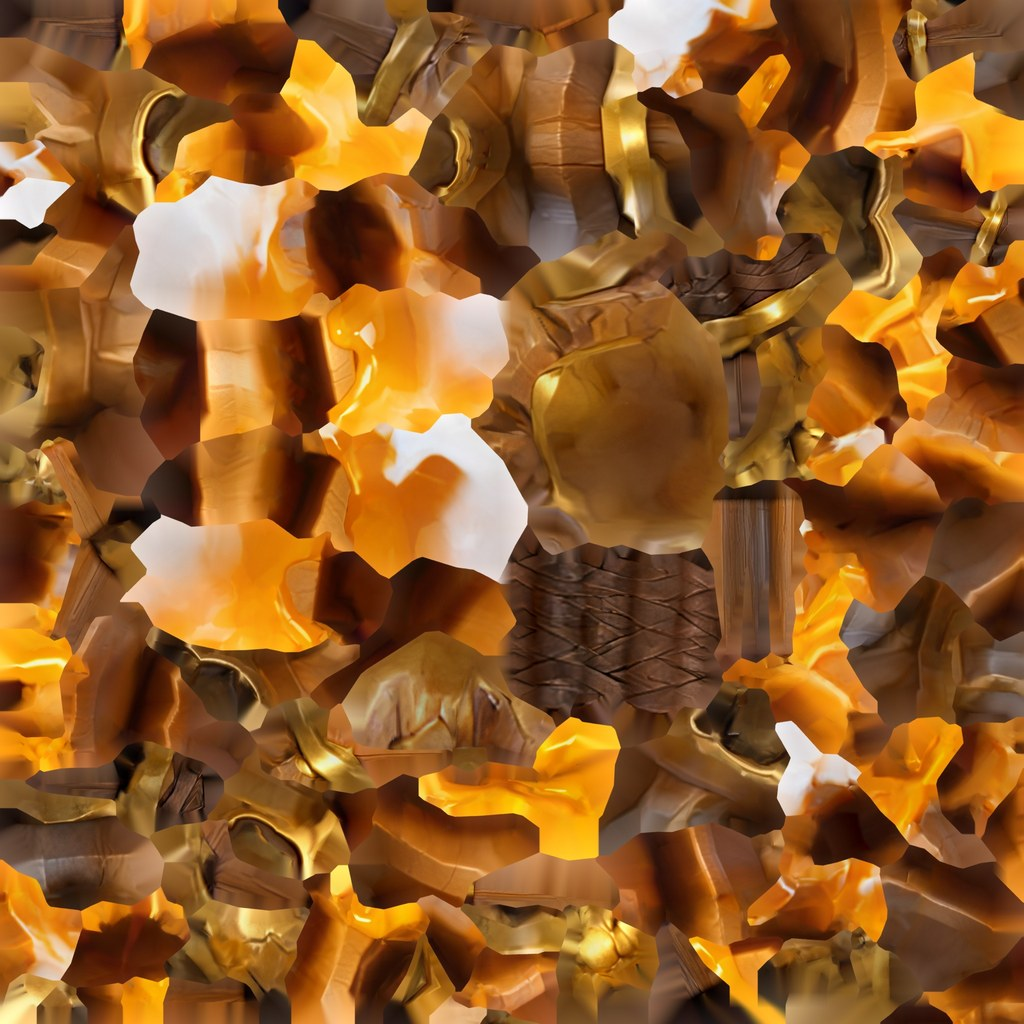
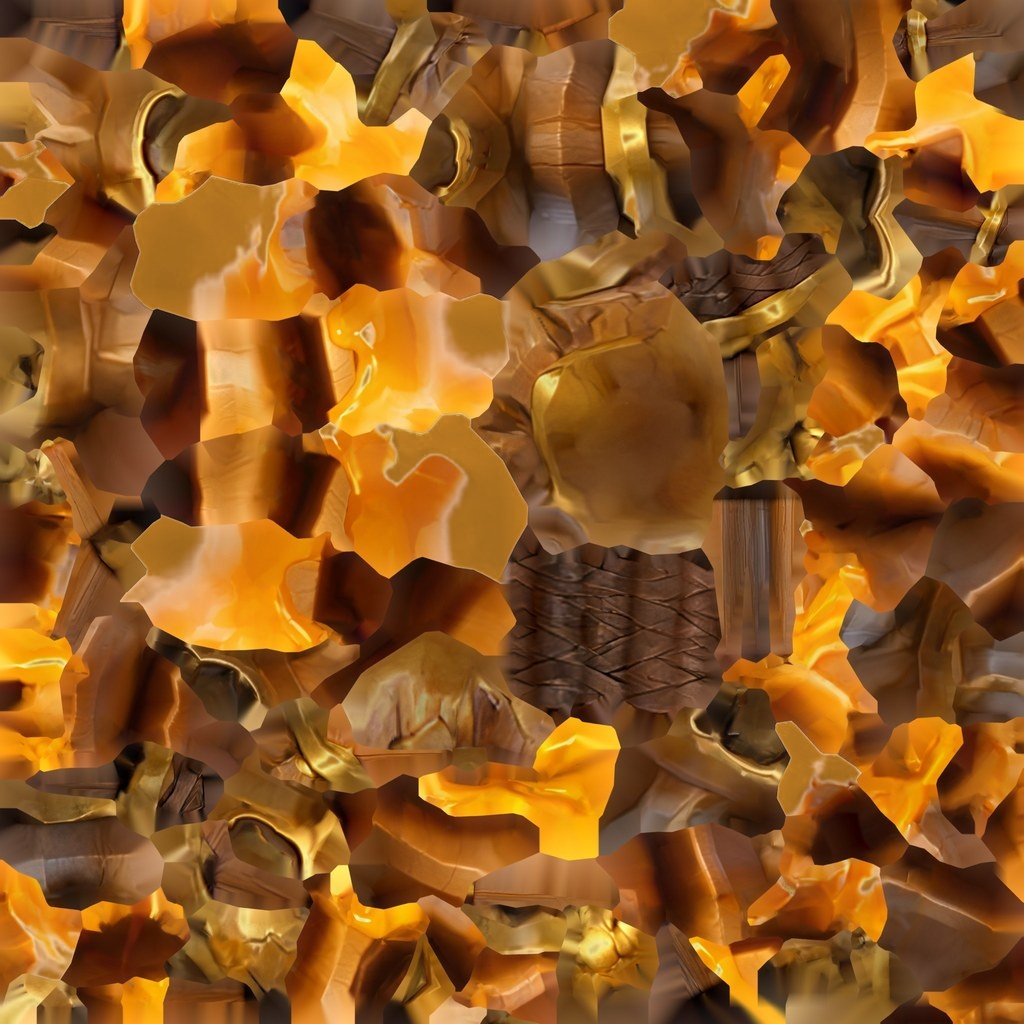
Ravnas kråka flyttad in på axeln (x 0.035, y 0.025, z -0.01 från överarmen i stället för ute på mantelkanten) och Moas V2-stav utan vita fläckar (Tripos inbakade vita ljus i v2_moa_staff.jpg omfärgade till honungsbärnsten). Rickard 16 nov: "Fågeln utanför, moas stav är vit på toppen". Bara bild, ing
Claude-Session: https://claude.ai/code/session_01M7eBmsdbX5dujjbvcNASSn

diff --git a/Assets/BAM/Art/Weapons.cs b/Assets/BAM/Art/Weapons.cs
@@ -595,7 +595,9 @@ namespace BAM.Art
             {
                 new WornDef { Model = "v2_ravna_mantle", Bone = Chest, From = LArm, To = RArm, Height = 0.55f, At = new Vector3(0f, 0.03f, -0.05f), Flat = 0.8f, Sway = 20f },
                 new WornDef { Model = "v2_ravna_mask", Bone = Head, From = Head, Height = 0.16f, At = new Vector3(0f, 0.06f, 0f) },
-                new WornDef { Model = "v2_ravna_crow", Bone = HumanBodyBones.LeftShoulder, From = LArm, Height = 0.1f, At = new Vector3(-0.015f, 0.04f, -0.015f) },
+                // the crow on top of her left shoulder, between the neck and the shoulder ball, feet in the mantle's feathers: at x -0.015
+                // (out past the shoulder ball) and 0.04 up it stood outside her on the mantle's edge (Rickard 2026-11-16 "Fågeln utanför")
+                new WornDef { Model = "v2_ravna_crow", Bone = HumanBodyBones.LeftShoulder, From = LArm, Height = 0.1f, At = new Vector3(0.035f, 0.025f, -0.01f) },
             };
 
             // only the twelve remade heroes have a V2 body
